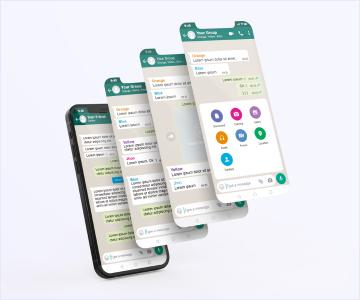
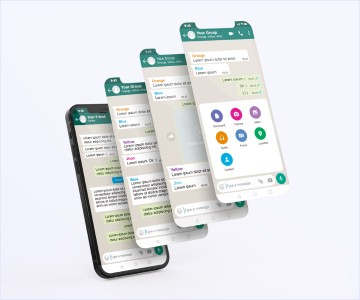
adds imges with higher ppi to services section

diff --git a/index.html b/index.html
@@ -132,6 +132,7 @@
           <ul class="services-list list">
             <li class="services-list-item">
               <img
+                srcset="./images\services\img1.jpg 1x, images\services\img1@2x.jpg 2x"
                 class="services-list-img"
                 src="./images/services/img1.jpg"
                 alt="website"
@@ -141,6 +142,7 @@
             </li>
             <li class="services-list-item">
               <img
+                srcset="./images\services\img1.jpg 1x, images\services\img2@2x.jpg 2x"
                 class="services-list-img"
                 src="./images/services/img2.jpg"
                 alt="design"
@@ -150,6 +152,7 @@
             </li>
             <li class="services-list-item">
               <img
+                srcset="./images\services\img1.jpg 1x, images\services\img3@2x.jpg 2x"
                 class="services-list-img"
                 src="./images/services/img3.jpg"
                 alt="application"
